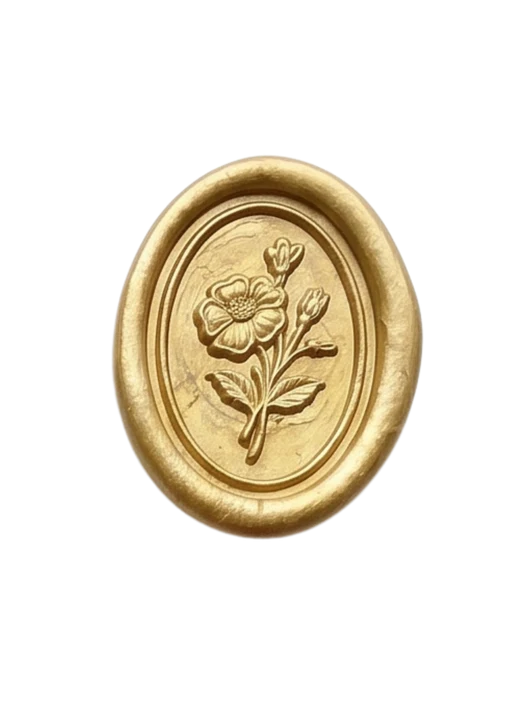
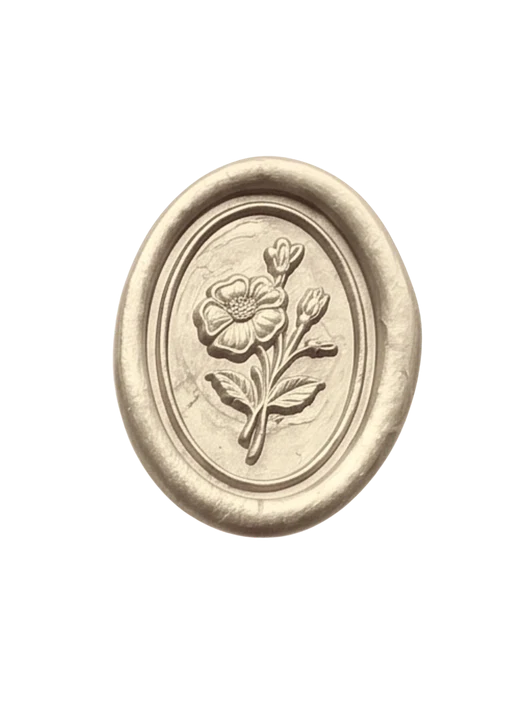
fix(ivory-lace): split-flap opening, reference stamp, hashtag, inline film
- gate opens like the reference: the clipped flap (top band + stamp tab)
  travels up while the envelope body travels down
- wax stamp is the reference's cream seal (0cff0386), not the gold one
- Instagram hashtag on the closing, from display_name
- film plate autoplays inline (no notes overlay), ornaments stay
- closing photograph fits its frame instead of being cropped
- story milestones no longer ask for a photo: the story uses cover slot 2

Changed region(s): [[0.2154, 0.2115, 0.8308, 0.7555]]

diff --git a/src/components/templates/ivory-lace/index.tsx b/src/components/templates/ivory-lace/index.tsx
@@ -152,9 +152,9 @@ export default function IvoryLace(profile: TemplateProps) {
   const toastTimer = useRef<number | null>(null)
 
   const [opened, setOpened] = useState(false)
+  const [opening, setOpening] = useState(false)
   const [playing, setPlaying] = useState(false)
   const [lightbox, setLightbox] = useState<number | null>(null)
-  const [filmPlaying, setFilmPlaying] = useState(false)
   const [openAccount, setOpenAccount] = useState(-1)
   const [toast, setToast] = useState("")
 
@@ -210,7 +210,6 @@ export default function IvoryLace(profile: TemplateProps) {
   const hasGift = accounts.length > 0 || !!giftAddress
 
   const film = videoSource(profile.video_url)
-  const filmStill = covers[1] || galleryPhotos[0] || covers[0] || ""
   const hasVideo = !!film && gates.video !== false && profile.video_section_visible !== false
 
   const eventDay = useMemo(() => eventDate(profile), [profile])
@@ -221,6 +220,13 @@ export default function IvoryLace(profile: TemplateProps) {
   const trackUrl = profile.track_url || (profile.template_demo ? ASSETS.defaultMusic : "")
   const hasTrack = !!trackUrl
 
+  // Instagram hashtag, the same convention as the adat templates: the couple's
+  // display name when it starts with "#", their names otherwise.
+  const rawHashtag = (profile.display_name || "").trim()
+  const hashtag = rawHashtag.startsWith("#")
+    ? rawHashtag
+    : `#${`${groom}${bride}`.replace(/[^A-Za-z0-9]/g, "")}`
+
   const welcomeTitle = (profile.opening_title || "").trim() || tc.welcome_invite || "Dear Family & Friends"
   const welcomeMessage = (profile.opening_description || "").trim() || tc.welcome_message || DEFAULT_WELCOME
 
@@ -229,18 +235,29 @@ export default function IvoryLace(profile: TemplateProps) {
     !profile.template_demo &&
     opened &&
     lightbox === null &&
-    !filmPlaying &&
     (!!profile.guest_id || (profile.guest_link_strict === false && !!profile.guest_slug)) &&
     !!profile.wedding_profile_id
 
+  // The reference splits the envelope: the flap half rises, the lower half
+  // drops, and the invitation is revealed between them. The gate stays mounted
+  // for the duration of the travel, then unmounts from the top of the page.
   const openInvitation = useCallback(() => {
-    setOpened(true)
+    if (opening || opened) return
+    setOpening(true)
     if (hasTrack) {
       const audio = audioRef.current
       if (audio) audio.play().then(() => setPlaying(true), () => setPlaying(false))
     }
-    window.scrollTo(0, 0)
-  }, [hasTrack])
+    const reduced =
+      typeof window !== "undefined" && window.matchMedia("(prefers-reduced-motion: reduce)").matches
+    window.setTimeout(
+      () => {
+        setOpened(true)
+        window.scrollTo(0, 0)
+      },
+      reduced ? 0 : 1150
+    )
+  }, [hasTrack, opening, opened])
 
   useEffect(() => {
     document.body.style.overflow = opened ? "" : "hidden"
@@ -633,31 +650,11 @@ export default function IvoryLace(profile: TemplateProps) {
               <h2 className="il-display il-heading">{tc.video_title || "Our Film"}</h2>
               {tc.video_intro && <p className="il-body il-film__intro">{tc.video_intro}</p>}
 
-              {!filmPlaying ? (
-                <>
-                  {/* The reference's player plate: a sprig, a framed still and a
-                      record, with "Click to Play" underneath. */}
-                  <div className="il-film__player">
-                    <img className="il-film__sprig" src={ART_SPRIG} alt="" aria-hidden="true" loading="lazy" />
-                    <button
-                      type="button"
-                      className="il-film__still"
-                      onClick={() => setFilmPlaying(true)}
-                      aria-label="Play the wedding film"
-                    >
-                      {filmStill && <img src={filmStill} alt="" loading="lazy" />}
-                      <span className="il-film__notes" aria-hidden="true">
-                        <img src={ART_NOTES} alt="" />
-                      </span>
-                    </button>
-                    <img className="il-film__vinyl" src={ART_VINYL} alt="" aria-hidden="true" loading="lazy" />
-                  </div>
-                  <p className="il-film__play">Click to Play</p>
-                </>
-              ) : (
-                <div className="il-film__window">
+              <div className="il-film__player">
+                <img className="il-film__sprig" src={ART_SPRIG} alt="" aria-hidden="true" loading="lazy" />
+                <div className="il-film__still">
                   {film!.kind === "file" ? (
-                    <video src={film!.src} autoPlay muted loop playsInline controls preload="metadata" />
+                    <video src={film!.src} autoPlay muted loop playsInline preload="metadata" />
                   ) : (
                     <iframe
                       src={film!.src}
@@ -667,7 +664,8 @@ export default function IvoryLace(profile: TemplateProps) {
                     />
                   )}
                 </div>
-              )}
+                <img className="il-film__vinyl" src={ART_VINYL} alt="" aria-hidden="true" loading="lazy" />
+              </div>
               {tc.video_caption && <p className="il-film__caption">{tc.video_caption}</p>}
             </div>
           </section>
@@ -782,6 +780,7 @@ export default function IvoryLace(profile: TemplateProps) {
                 <figcaption className="il-closing__names">{coupleLabel}</figcaption>
               </figure>
             )}
+            <p className="il-hashtag">{hashtag}</p>
             <p className="il-body il-closing__message">
               {tc.closing_message || "We cannot wait to celebrate with you."}
             </p>
@@ -816,15 +815,19 @@ export default function IvoryLace(profile: TemplateProps) {
       </main>
 
       {/* ── Sealed envelope ──────────────────────────────────────── */}
+      {/* The reference opens by splitting the envelope: the V flap and the wax
+          stamp lift away, while the body of the envelope drops. Two copies of
+          the same artwork, one clipped to the flap (plus a tab for the stamp),
+          the other whole. */}
       <div
-        className={`il-gate${opened ? " is-open" : ""}`}
+        className={`il-gate${opening ? " is-opening" : ""}${opened ? " is-open" : ""}`}
         role="dialog"
         aria-modal="true"
         aria-label="Open the invitation"
         onClick={openInvitation}
       >
-        <div className="il-gate__card">
-          <span className="il-gate__lace" style={bg(ART_ENVELOPE)} aria-hidden="true" />
+        <div className="il-gate__half il-gate__half--flap">
+          <span className="il-gate__lace" style={bg(ART_ENVELOPE)} />
           <div className="il-gate__body">
             <p className="il-script il-gate__letter">A Letter From Our Hearts</p>
             <HeartRule className="il-gate__rule" />
@@ -834,6 +837,12 @@ export default function IvoryLace(profile: TemplateProps) {
               <span>{bride}</span>
             </h1>
             <img className="il-gate__seal" src={ART_SEAL} alt="" aria-hidden="true" draggable={false} />
+          </div>
+        </div>
+
+        <div className="il-gate__half il-gate__half--body">
+          <span className="il-gate__lace" style={bg(ART_ENVELOPE)} />
+          <div className="il-gate__body">
             <button type="button" className="il-gate__open" onClick={openInvitation}>
               Open
             </button>
@@ -843,6 +852,7 @@ export default function IvoryLace(profile: TemplateProps) {
             </p>
           </div>
         </div>
+
         <span className="il-gate__brand">Wedding by Aksaraa</span>
       </div>
 

diff --git a/src/components/templates/ivory-lace/ivory-lace.css b/src/components/templates/ivory-lace/ivory-lace.css
@@ -1038,30 +1038,17 @@ body:has(.il-root.is-locked) {
   padding: 0;
   background: var(--il-paper-3);
   overflow: hidden;
-  cursor: pointer;
   box-shadow: 0 18px 40px -28px rgba(34, 34, 32, 0.55);
 }
 
-.il-film__still img {
+.il-film__still video,
+.il-film__still iframe {
   width: 100%;
   height: 100%;
+  border: 0;
   object-fit: cover;
+  display: block;
   filter: grayscale(1);
-}
-
-.il-film__notes {
-  position: absolute;
-  inset: 0;
-  display: flex;
-  align-items: center;
-  justify-content: center;
-  background: rgba(253, 252, 248, 0.18);
-}
-
-.il-film__notes img {
-  width: 46%;
-  height: auto;
-  filter: drop-shadow(0 0 12px rgba(255, 255, 255, 0.65));
 }
 
 .il-film__vinyl {
@@ -1464,10 +1451,15 @@ body:has(.il-root.is-locked) {
 .il-closing__photo {
   position: relative;
   width: 100%;
-  aspect-ratio: 4 / 3;
+  background: var(--il-paper-3);
 }
 
+/* The closing plate fits the photograph: it is the last thing a guest sees, so
+   cropping it (aspect-ratio + object-fit: cover) cut heads off. */
 .il-closing__photo img {
+  width: 100%;
+  height: auto;
+  display: block;
   filter: grayscale(1);
 }
 
@@ -1482,6 +1474,16 @@ body:has(.il-root.is-locked) {
   text-transform: uppercase;
   color: #fff;
   text-shadow: 0 2px 18px rgba(0, 0, 0, 0.45);
+}
+
+.il-hashtag {
+  margin: 22px 0 0;
+  text-align: center;
+  font-family: var(--il-body);
+  font-size: 10.5px;
+  letter-spacing: 0.26em;
+  text-transform: uppercase;
+  color: var(--il-gold-deep);
 }
 
 .il-closing__message {
@@ -1613,25 +1615,42 @@ body:has(.il-root.is-locked) {
   position: fixed;
   inset: 0;
   z-index: 70;
-  display: flex;
-  flex-direction: column;
-  align-items: center;
-  justify-content: center;
-  background: var(--il-paper);
-  transition: opacity 0.7s ease, visibility 0.7s ease;
+  overflow: hidden;
+  background: transparent;
   cursor: pointer;
 }
 
 .il-gate.is-open {
-  opacity: 0;
-  visibility: hidden;
-  pointer-events: none;
+  display: none;
 }
 
-.il-gate__card {
+/* Two clipped copies of the same envelope. On open the flap half travels up
+   and the lower half travels down, revealing the invitation between them. */
+.il-gate__half {
   position: absolute;
   inset: 0;
   overflow: hidden;
+  background: var(--il-paper);
+  transition: transform 1.15s cubic-bezier(0.66, 0, 0.34, 1);
+  will-change: transform;
+}
+
+/* The flap: the top band down to where the lace V runs, plus a centre tab that
+   carries the wax stamp (so the stamp travels with the flap, not the body). */
+.il-gate__half--flap {
+  clip-path: polygon(0 0, 100% 0, 100% 38%, 66% 38%, 66% 63%, 34% 63%, 34% 38%, 0 38%);
+}
+
+.il-gate.is-opening .il-gate__half--flap {
+  transform: translateY(-101%);
+}
+
+.il-gate.is-opening .il-gate__half--body {
+  transform: translateY(101%);
+}
+
+.il-gate.is-opening .il-gate__brand {
+  opacity: 0;
 }
 
 .il-gate__lace {
@@ -1750,7 +1769,10 @@ body:has(.il-root.is-locked) {
 .il-gate__brand {
   position: absolute;
   bottom: 18px;
+  left: 0;
+  right: 0;
   z-index: 3;
+  transition: opacity 0.5s ease;
   font-family: var(--il-caps);
   font-size: 8px;
   letter-spacing: 0.3em;
@@ -1900,7 +1922,8 @@ body:has(.il-root.is-locked) {
   }
 
   .il-closing__photo {
-    aspect-ratio: 16 / 10;
+    max-width: 760px;
+    margin-inline: auto;
   }
 
   .il-music {
@@ -1932,7 +1955,7 @@ body:has(.il-root.is-locked) {
     animation: none;
   }
 
-  .il-gate {
+  .il-gate__half {
     transition: none;
   }
 }

diff --git a/src/components/templates/index.ts b/src/components/templates/index.ts
@@ -1183,7 +1183,9 @@ export const TEMPLATE_CONFIGS: TemplateConfig[] = [
       cover_slot_labels: ["Foto Sampul", "Foto Kisah Cinta", "Foto Penutup"],
       groom_photo: "single",
       bride_photo: "single",
-      story_photo: true,
+      // The love-story backdrop is cover_photos[1]; story milestones carry no
+      // photo of their own, so the editor/ops hide the milestone image field.
+      story_photo: false,
       sections: {
         opening_description: true,
         quote: false,
